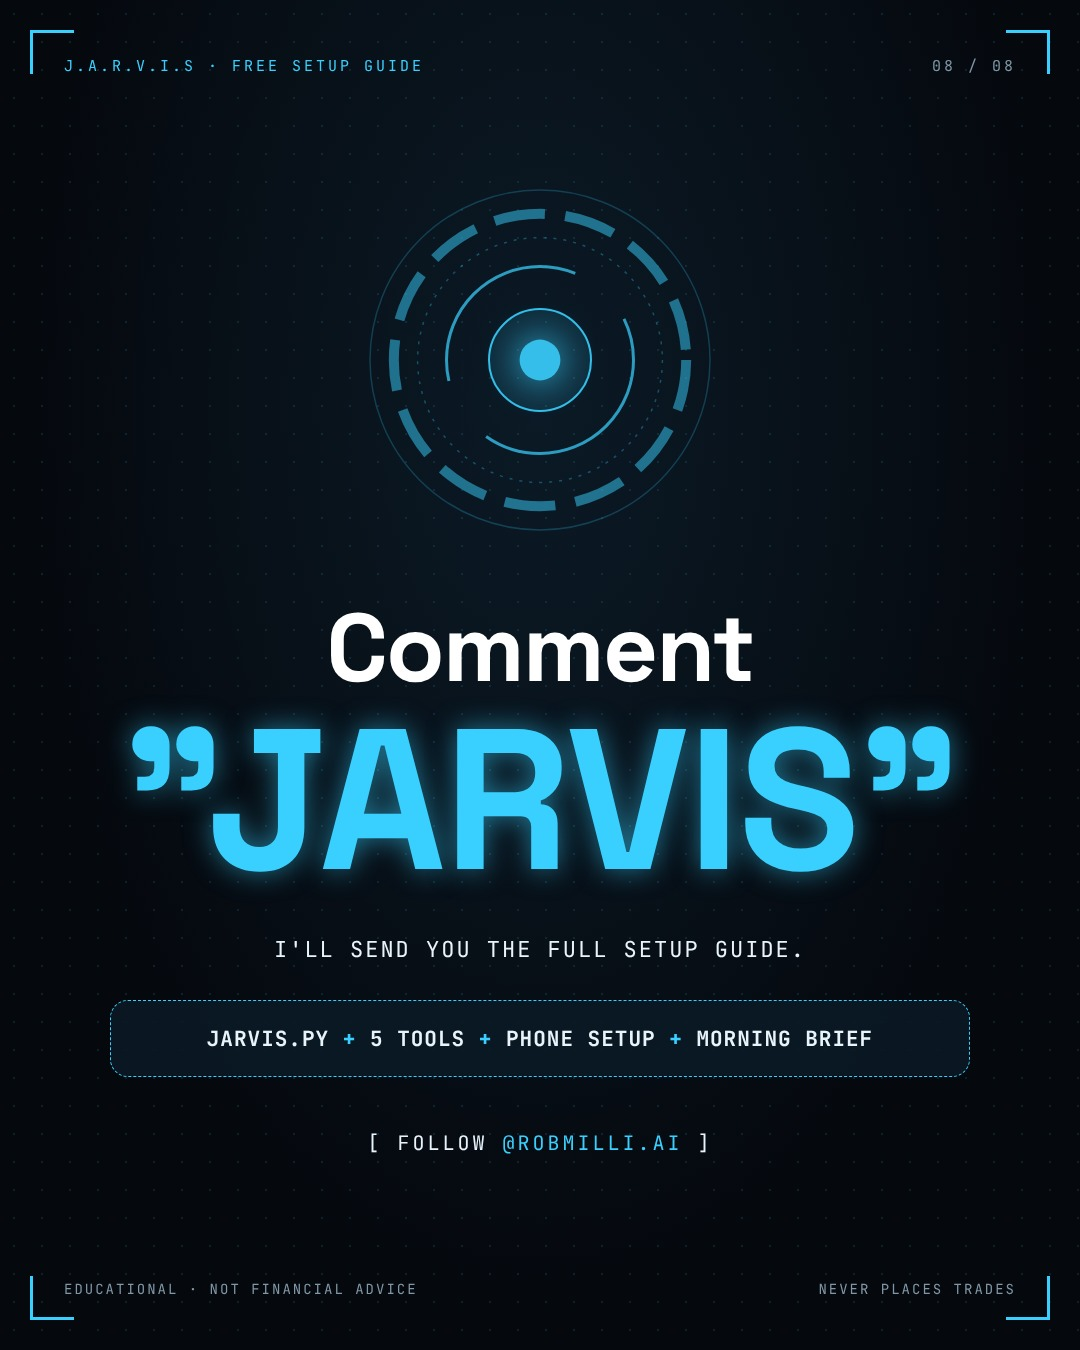
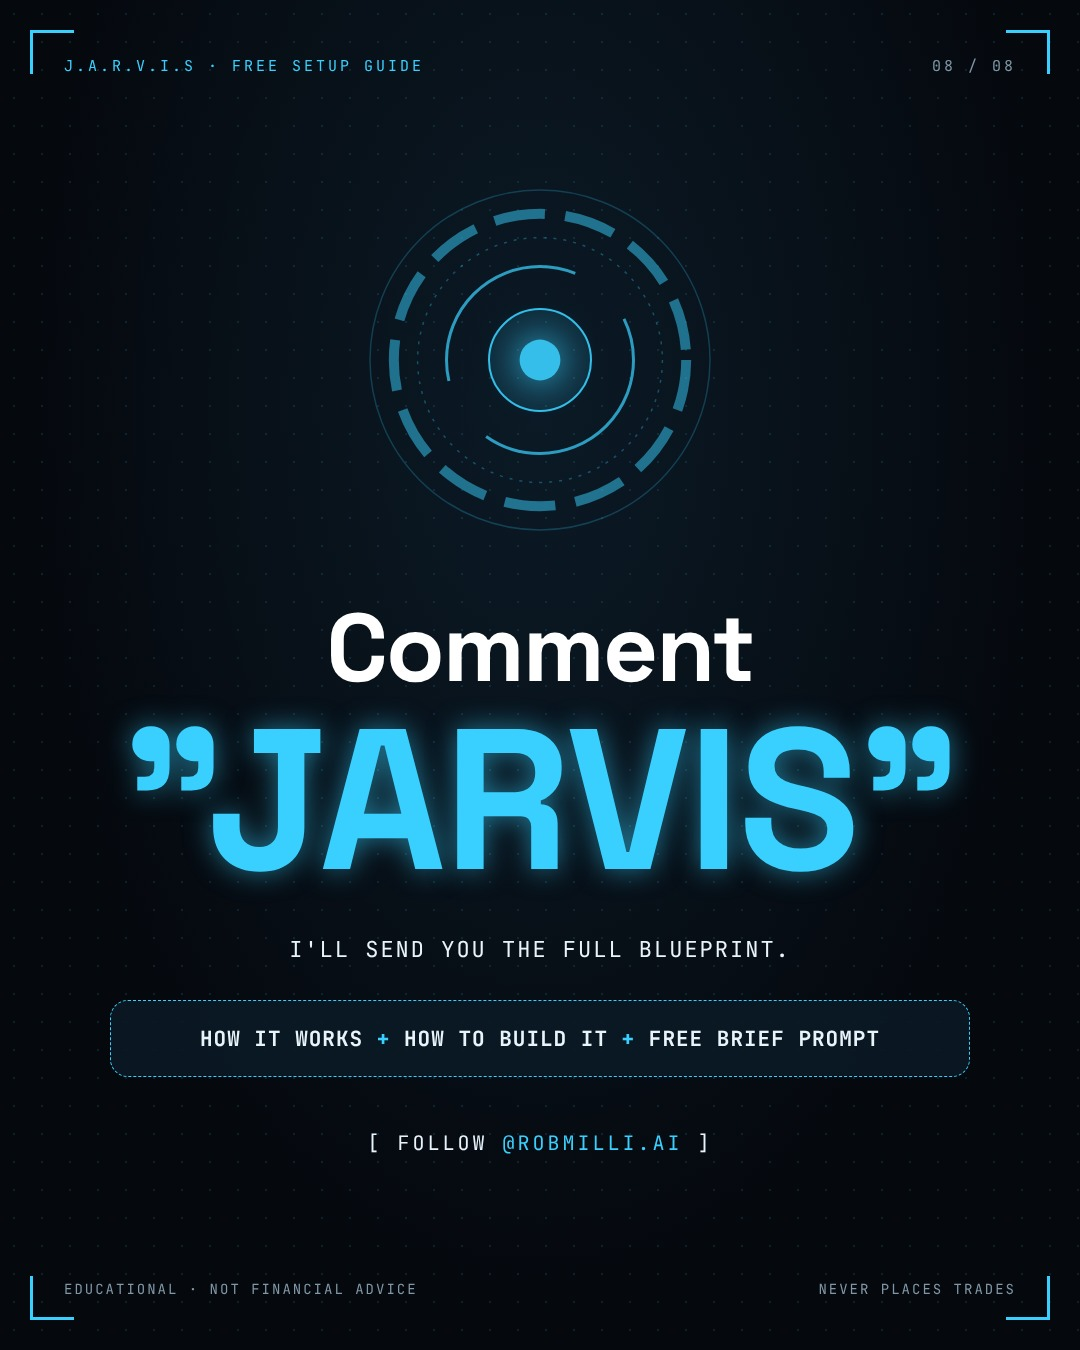
Update CTA slides and captions: free guide = blueprint, finished bot in the AI Desk
Claude-Session: https://claude.ai/code/session_01TMADaJwoYThJsVX3Un7DJe

diff --git a/b03-tradingview/caption.md b/b03-tradingview/caption.md
@@ -18,7 +18,7 @@ Scan → Analyze → Confirm → Size → Alert
 
 The goal isn't to let AI trade your money. It's to have a second set of eyes that checks every chart with the same rules, and tells you when to skip.
 
-Comment TRADINGVIEW and I'll DM you my free Claude × TradingView Setup: the analyst prompt, the Pine Script, the webhook app and the phone alerts. Sign up at the link I send and the full guide will be emailed to you.
+Comment TRADINGVIEW and I'll DM you my free Claude × TradingView blueprint: how it works, how to build it, plus the analyst prompt you can use today. The finished, tested setup is in the AI Desk. Sign up at the link I send and the full guide will be emailed to you.
 
 Chart numbers are examples. AI can be wrong and nothing here predicts the market. It never places trades; you make every decision.
 #tradingview #claudeai #aitrading #tradingforbeginners #stockmarket

diff --git a/b03-legends/caption.md b/b03-legends/caption.md
@@ -19,7 +19,7 @@ But remember: a strategy that looks great on paper can still lose money. Costs, 
 
 The goal isn't to copy a legend. It's to understand the idea, write your own rules and test them honestly.
 
-Comment LEGENDS and I'll DM you the free playbook with all 5 rule sets, the full Python script and the Claude prompt. Sign up at the link I send and the full guide will be emailed to you.
+Comment LEGENDS and I'll DM you the free playbook with all 5 rule sets, how to build them, and a free Claude prompt you can use today. Want it done for you? The finished, tested version is in the AI Desk. Sign up at the link I send and the full guide will be emailed to you.
 
 Simplified teaching models inspired by each investor's public philosophy. Not their actual strategies, no endorsement, not financial advice. You make every decision.
 #algotrading #investing #claudeai #python #tradingforbeginners

diff --git a/b03-247/caption.md b/b03-247/caption.md
@@ -18,7 +18,7 @@ Scan → Signal → Plan → Risk → Decide → Log
 
 The rules outrank the AI, every time. It never places an order. It does the research; I make the call.
 
-Comment 24/7 and I'll DM you my free 24/7 AI Trader Blueprint: the full trader.py script, the Claude decision prompt and the step-by-step setup to run it around the clock. Sign up at the link I send and the full blueprint will be emailed to you.
+Comment 24/7 and I'll DM you my free 24/7 AI Trader Blueprint: how it works, how to build it, plus a free prompt that runs it in Claude today. The finished, tested bot is in the AI Desk. Sign up at the link I send and the full blueprint will be emailed to you.
 
 Chart numbers are examples. AI can be wrong and nothing here predicts the market. You make every decision.
 #claudeai #aitrading #tradingbot #pythontrading #stockmarket

diff --git a/b03-polybot/caption.md b/b03-polybot/caption.md
@@ -14,7 +14,7 @@ So I built my own version as a team of 6 AI agents:
 
 The $279,053 is the original creator's self-reported result, not mine, and it hasn't been independently verified.
 
-Comment POLYBOT and I'll DM you my free 6-Agent Setup Guide: the full Python code, every agent's prompt and the step-by-step setup. Sign up at the link I send and the full guide will be emailed to you.
+Comment POLYBOT and I'll DM you my free 6-Agent Blueprint: how it works, how to build it, plus a free prompt that runs the whole team in Claude today. The finished, tested bot is in the AI Desk. Sign up at the link I send and the full guide will be emailed to you.
 
 Educational, not financial advice. Numbers on the slides are examples. It never places a bet on its own; you make every decision.
 #polymarket #aitrading #predictionmarkets #claudeai #automation

diff --git a/b03-jarvis/caption.md b/b03-jarvis/caption.md
@@ -16,7 +16,7 @@ Claude picks which tools to use. Every number comes from live data, never a gues
 
 And it can't trade. On purpose. JARVIS does the research; I make the call.
 
-Comment JARVIS and I'll DM you my free JARVIS Setup Guide: the full Python file, the 5 data tools, the phone setup and the morning brief. Sign up at the link I send and the full guide will be emailed to you.
+Comment JARVIS and I'll DM you my free JARVIS blueprint: how it works, how to build it, plus a free morning-brief prompt you can use today. The finished, tested JARVIS is in the AI Desk. Sign up at the link I send and the full guide will be emailed to you.
 
 Numbers shown are examples. AI can be wrong and nothing here predicts the market. You make every decision.
 #claudeai #aitrading #stockmarket #tradingtools #pythontrading
